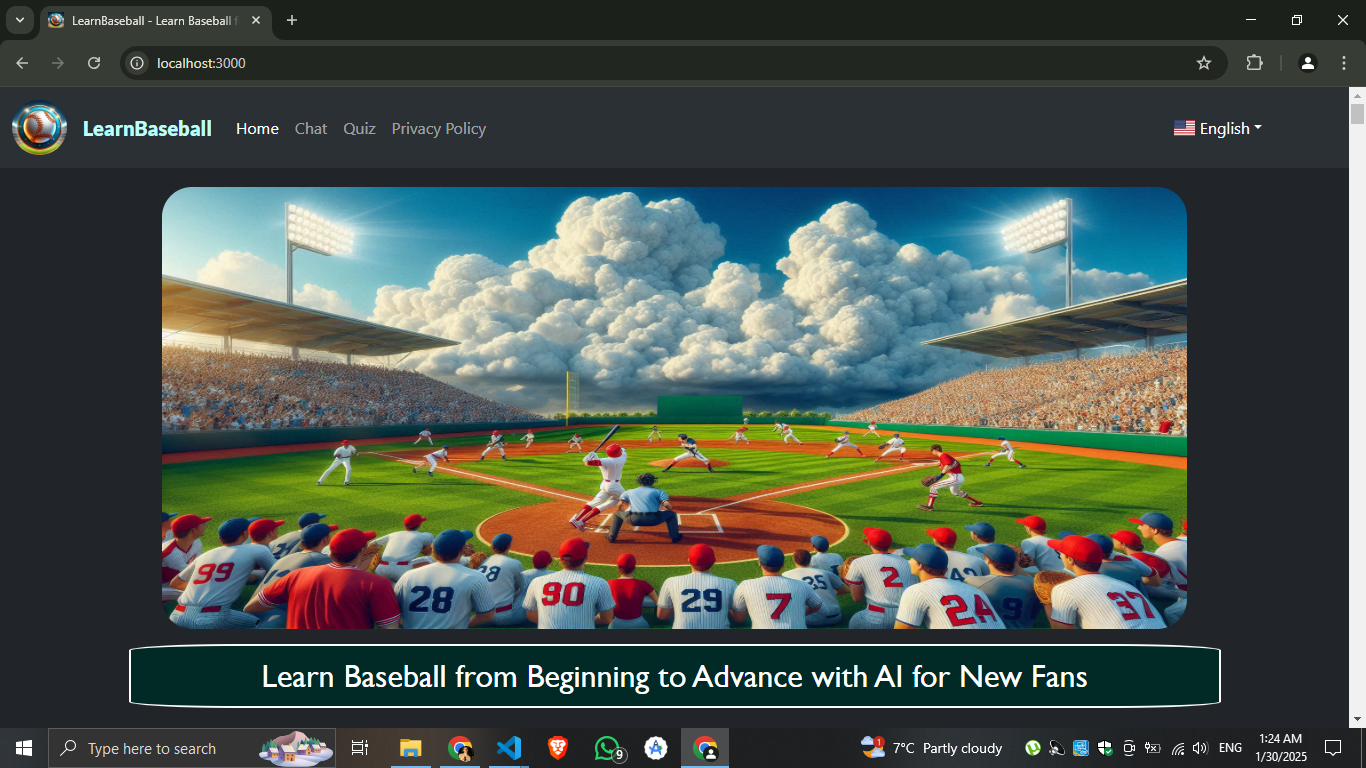
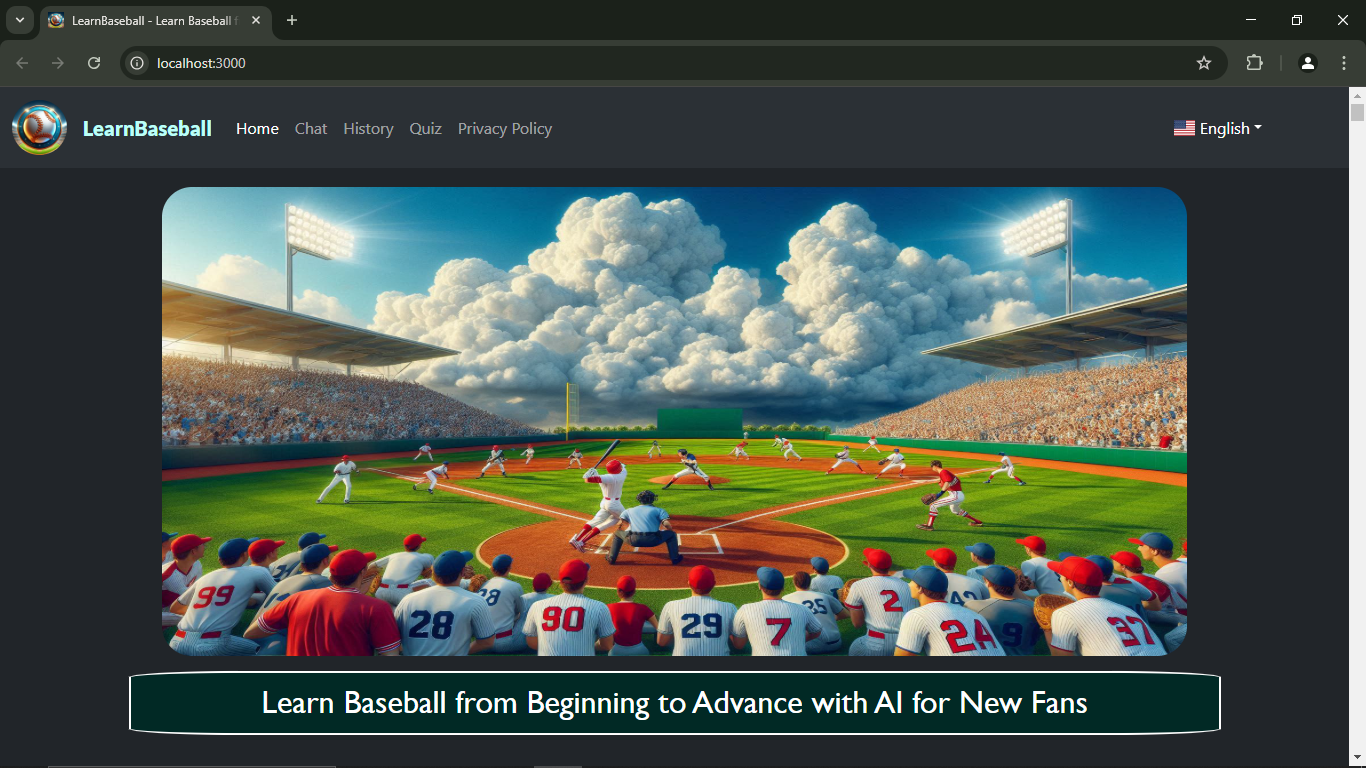
updated some code and Readme file

diff --git a/src/Components/Quiz.jsx b/src/Components/Quiz.jsx
@@ -26,7 +26,9 @@ export default function Quiz() {
 
   const analyzeCorrectAnswerPrompt = `You are a passionate baseball expert and quizmaster engaging with me, a new baseball fan. You previously asked the question: ${aiQuestion}\n I answered: ${questionInput}\n Your task now is simple: Check my answer and the question provided, If my answer is correct, respond with "correct." If it's not, respond with "incorrect." read the question and answer with focus according to baseball rules and then answer!! Provide no additional details or commentary!`;
 
-  const genAI = new GoogleGenerativeAI(process.env.API_KEY);
+  const genAI = new GoogleGenerativeAI(
+    process.env.API_KEY
+  );
   const model = genAI.getGenerativeModel({ model: "gemini-1.5-flash" });
 
   const getAIQuizQuestion = async () => {
@@ -88,6 +90,7 @@ export default function Quiz() {
 
   const correctAnswerAiResponse = async () => {
     const result = await model.generateContent(analyzeCorrectAnswerPrompt);
+    console.log(result.response.text());
     if (
       result.response.text() === "correct" ||
       result.response.text() === "Correct"

diff --git a/src/Components/Chat.jsx b/src/Components/Chat.jsx
@@ -13,7 +13,9 @@ export default function Chat() {
 
   const aiJobPrompt = `${t("chatAIPrompt")}`;
 
-  const genAI = new GoogleGenerativeAI(process.env.API_KEY);
+  const genAI = new GoogleGenerativeAI(
+    process.env.API_KEY
+  );
   const model = genAI.getGenerativeModel({ model: "gemini-1.5-flash" });
 
   const fetchAIResponse = async () => {

diff --git a/README.md b/README.md
@@ -1,3 +1,6 @@
+![Home Page Screenshot](./src/Images/baseball_logo.jpeg)
+
+
 # LearnBaseball ⚾
 
 LearnBaseball is an interactive web application designed to teach baseball to new fans. It provides users with an engaging learning experience supported by AI, allowing them to explore the rules of the game, chat with an AI baseball expert, and test their knowledge through quizzes. Multi-language support ensures accessibility for a global audience.
@@ -9,43 +12,49 @@ LearnBaseball is an interactive web application designed to teach baseball to ne
 Baseball is one of the most popular sports globally, yet billions of people have little to no understanding of how to play the game. Many new fans find it challenging to learn this amazing sport. LearnBaseball was created to help new fans learn baseball interactively with AI, from beginner to advanced levels, offering them a seamless and fun experience.
 
 ---
+## **Features** ⚙  
 
-## **Features** ⚙
+### **1. Interactive Rules of Baseball** 📖  
+- The homepage lists essential rules of baseball.  
+- Users can learn the rules in an interactive manner.  
+- Each rule has an AI support option powered by Google Cloud’s Gemini API, allowing users to:  
+  - Ask questions about the specific rule. 🤔  
+  - Get answers to general baseball-related queries. ⚾  
 
-### **1. Interactive Rules of Baseball** 📖
-- The homepage lists essential rules of baseball.
-- Users can learn the rules in an interactive manner.
-- Each rule has an AI support option powered by Google Cloud’s Gemini API, allowing users to:
-  - Ask questions about the specific rule. 🤔
-  - Get answers to general baseball-related queries. ⚾
+### **2. MLB Baseball Videos** 🎥  
+- Users can watch the latest MLB baseball videos directly from MLB’s YouTube channel within the app.  
 
-### **2. AI Chat** 💬
-- A dedicated chat page where users can:
-  - Discuss anything about baseball with the AI baseball expert.
-  - Get guidance tailored for beginners, making learning personalized and engaging. 👍
+### **3. AI Chat** 💬  
+- A dedicated chat page where users can:  
+  - Discuss anything about baseball with the AI baseball expert.  
+  - Get guidance tailored for beginners, making learning personalized and engaging. 👍  
+  
+### **4. Learn Baseball History** 📜  
+- A dedicated History page to explore the origins and growth of baseball.  
+- Users can ask AI about historical facts, milestones, and trivia to deepen their understanding.  
 
-### **3. Baseball Quiz** ❓
-- Test your knowledge of baseball with our quiz feature:
-  - AI asks baseball-related questions with four possible answers.
-  - Users choose the correct answer, and AI evaluates their response.
-  - The quiz session consists of 10 questions per round.
-  - Features include:
-    - Progress tracking: Users can see how many questions are left. 📈
-    - Score tracking: Users can view the number of correct answers. 💯
-    - High score display: Track the best quiz performance. 🏆
-  - All quiz data is saved in local storage, ensuring persistence across sessions.
+### **5. Baseball Quiz** ❓  
+- Test your knowledge of baseball with our quiz feature:  
+  - AI asks baseball-related questions with four possible answers.  
+  - Users choose the correct answer, and AI evaluates their response.  
+  - The quiz session consists of 10 questions per round.  
+  - Features include:  
+    - Progress tracking: Users can see how many questions are left. 📈  
+    - Score tracking: Users can view the number of correct answers. 💯  
+    - High score display: Track the best quiz performance. 🏆  
+  - All quiz data is saved in local storage, ensuring persistence across sessions.  
 
-### **4. Multi-Language Support** 🌐
-- The app supports the following languages:
-  - English (default)
-  - French
-  - German
-  - Spanish
-  - Hindi
-  - Arabic
-  - Urdu
-- Users can select their preferred language, and the entire website content is translated dynamically.
-- Translation is implemented using the `i18next` npm package.
+### **6. Multi-Language Support** 🌐  
+- The app supports the following languages:  
+  - English (default)  
+  - French  
+  - German  
+  - Spanish  
+  - Hindi  
+  - Arabic  
+  - Urdu  
+- Users can select their preferred language, and the entire website content is translated dynamically. 
+- Translation is implemented using the `i18next` npm package.  
 
 ---
 
@@ -108,12 +117,14 @@ To use this application, you need to configure your API key. Follow these steps:
 
 ## **Screenshots** 📸
 
-![Home Page Screenshot](./src/Screenshots/home_screenshot.png)
-![Rules Section Screenshot](./src/Screenshots/rules_screenshot.png)
-![Rules Chat Screenshot](./src/Screenshots/rules_chat_screenshot.png)
-![Multi Language Screenshot](./src/Screenshots/multi_language_screenshot.png)
-![Chat Page Screenshot](./src/Screenshots/chat_screenshot.png)
-![Quiz Page Screenshot](./src/Screenshots/quiz_screenshot.png)
+![Home Page Screenshot](./src/Screenshots/home_screenshot.png.png)
+![Rules Section Screenshot](./src/Screenshots/rules_screenshot.png.png)
+![Rules Chat Screenshot](./src/Screenshots/gameplay_screenshot.png.png)
+![Multi Language Screenshot](./src/Screenshots/rule_chat_screenshot.png.png)
+![Chat Page Screenshot](./src/Screenshots/general_chat_screenshot.png.png.png)
+![Quiz Page Screenshot](./src/Screenshots/history_screenshot.png.png)
+![Quiz Page Screenshot](./src/Screenshots/quiz_screenshot.png.png.png)
+![Quiz Page Screenshot](./src/Screenshots/multi_language_screenshot.png.png.png)
 
 ---
 
